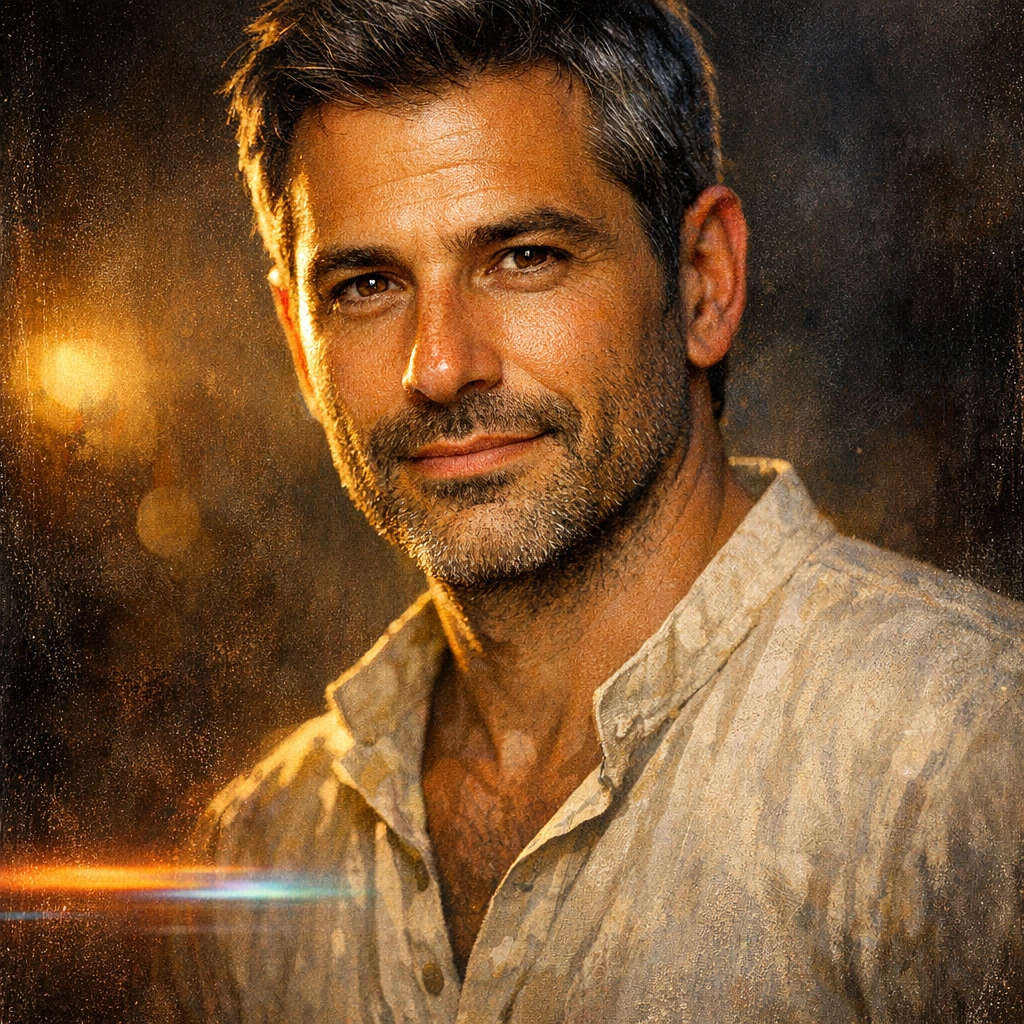
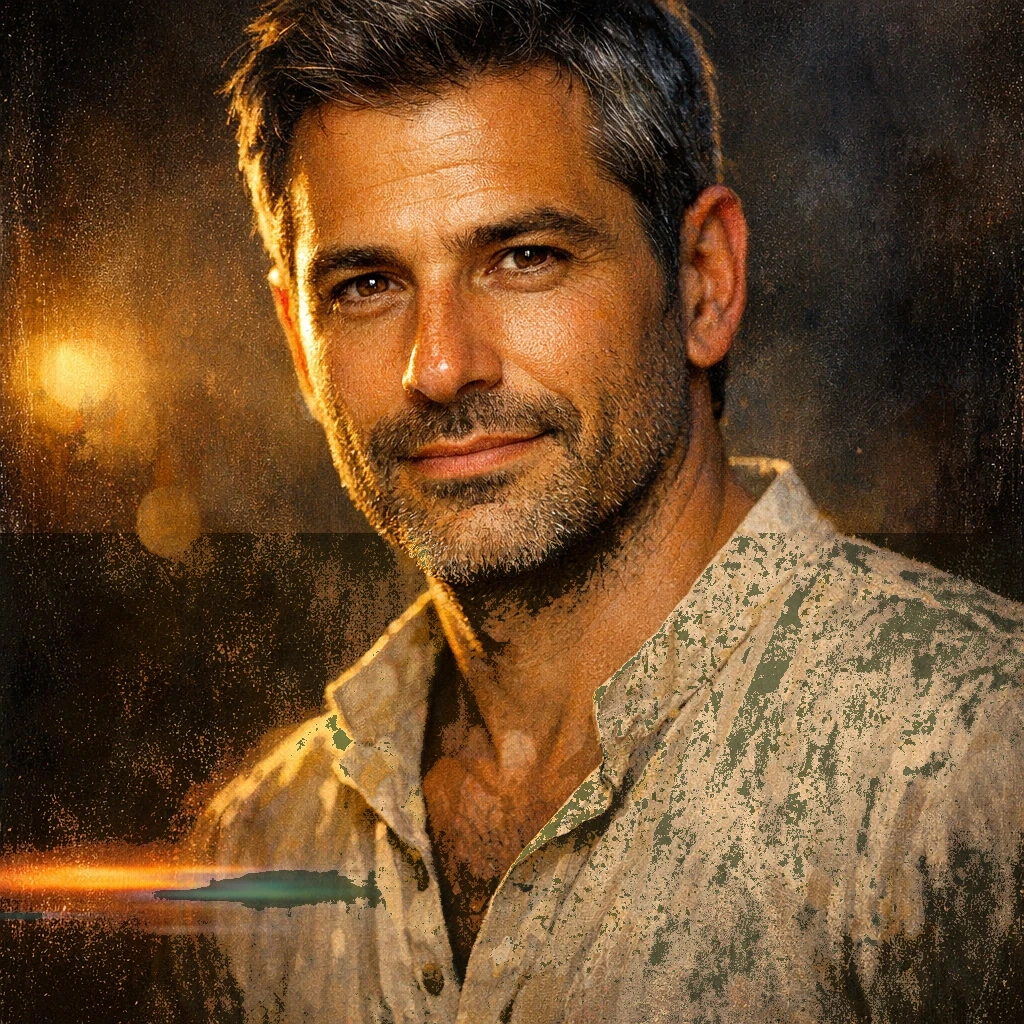
feat: character visual standardization — canonical guide + sprite/portrait color corrections
Create CHARACTER-VISUAL-GUIDE.md with canonical appearance definitions for all
11 characters (3 main + 8 NPCs) including hex color palettes and cutscene prompt
snippets. Audit all assets and fix mismatches:

Sprites: Ntemis yellow→olive jacket, Clio dark→golden brown hair, Stathis
dark→white/silver hair, Giannis brown→blond hair (programmatic HSV color shifts).

Portraits: Clio green→purple shirt, Stathis new portrait (white ponytail + denim
+ guitar), Giannis brown→blond hair, Ntemis/Akis subtle tone adjustments.

Code: Update drawFallbackPerson() palette to match canonical colors.

Changed region(s): [[0.0, 0.5, 1.0, 1.0], [0.7812, 0.875, 0.8125, 0.9062], [0.4688, 0.9688, 0.5, 1.0]]

diff --git a/index.html b/index.html
@@ -3207,9 +3207,9 @@ function drawSprite(who, gx, gy, dir, walking, frame, tick, frameOffset) {
 
 function drawFallbackPerson(x, y, who) {
   const colors = {
-    ntemis: { shirt: '#2A4466', pants: '#1a2a3a', skin: '#DDAA88' },
-    ajax:   { shirt: '#4A6644', pants: '#2a3a2a', skin: '#DDBB99' },
-    clio:   { shirt: '#664466', pants: '#3a2a3a', skin: '#DDC0A0' },
+    ntemis: { shirt: '#5A6B4A', pants: '#8B7355', skin: '#DDAA88' },
+    ajax:   { shirt: '#C44040', pants: '#6A7A5A', skin: '#DDBB99' },
+    clio:   { shirt: '#886688', pants: '#5A3A5A', skin: '#DDC0A0' },
   };
   const c = colors[who] || colors.ntemis;
   const h = who === 'ntemis' ? 40 : 32;

diff --git a/CHARACTER-VISUAL-GUIDE.md b/CHARACTER-VISUAL-GUIDE.md
@@ -1,0 +1,244 @@
+# Character Visual Guide — Galaxidi Adventure
+
+Canonical appearance definitions for every character across all art layers:
+- **Sprites** (pixel art, in-game) — `assets/char-*-final.png`
+- **Portraits** (dialogue boxes) — `assets/portrait-*.webp`
+- **Cutscenes** (anime stills, Ken Burns) — `assets/cutscene-*.png`
+
+All layers MUST match these definitions. This file is the source of truth.
+
+---
+
+## Main Characters
+
+### NTEMIS (47, lawyer on summer vacation)
+
+| Attribute | Value |
+|-----------|-------|
+| Hair | Dark brown, short, slightly messy, light stubble/5 o'clock shadow |
+| Top | Olive/khaki field jacket (unbuttoned), cream t-shirt underneath |
+| Bottom | Dark tan/brown chinos |
+| Accessories | Brown leather messenger bag (sometimes) |
+| Skin | Mediterranean olive tan |
+| Build | Tall/slim, 184cm |
+| Vibe | Indiana Jones lite — casual adventurer dad, not a tourist |
+
+**Color Palette:**
+| Part | Hex | Swatch |
+|------|-----|--------|
+| Jacket | `#5A6B4A` | Olive/khaki |
+| Undershirt | `#F0E6D0` | Cream |
+| Pants | `#8B7355` | Dark tan |
+| Skin | `#DDAA88` | Mediterranean olive |
+
+---
+
+### AJAX (13, athletic teen)
+
+| Attribute | Value |
+|-----------|-------|
+| Hair | Dark brown, curly/wavy, messy |
+| Top | Red t-shirt (solid, no print) |
+| Bottom | Olive/khaki cargo shorts (knee-length) |
+| Accessories | Dark canvas satchel/backpack with cross-body strap |
+| Skin | Mediterranean olive, slightly darker than Ntemis |
+| Build | Athletic/lean, 160cm |
+| Vibe | Energetic explorer kid, always ready to climb something |
+
+**Color Palette:**
+| Part | Hex | Swatch |
+|------|-----|--------|
+| Shirt | `#C44040` | Red |
+| Shorts | `#6A7A5A` | Olive/khaki |
+| Strap | `#4A3A2A` | Dark brown |
+| Skin | `#DDBB99` | Mediterranean olive (slightly darker) |
+
+---
+
+### CLIO (7, creative little girl)
+
+| Attribute | Value |
+|-----------|-------|
+| Hair | Golden brown, long, wavy/slightly curly, loose (no ponytail) |
+| Top | Mauve/soft purple sundress OR purple t-shirt + darker purple skirt |
+| Accessories | Small sketchbook tucked under arm (sometimes), straw sun hat (sometimes) |
+| Skin | Lightest of the three, fair Mediterranean |
+| Build | Small/petite, 120cm |
+| Vibe | Dreamy artist child, Ponyo/Mei from Totoro energy |
+
+**Color Palette:**
+| Part | Hex | Swatch |
+|------|-----|--------|
+| Dress/Top | `#886688` | Mauve/soft purple |
+| Skirt | `#5A3A5A` | Darker purple |
+| Hair | `#B8864A` | Golden brown |
+| Skin | `#DDC0A0` | Fair Mediterranean |
+
+---
+
+## NPCs
+
+### AKIS (~55, documentarist/flute player)
+
+| Attribute | Value |
+|-----------|-------|
+| Hair | Silver-brown, medium length |
+| Clothes | Light tan/beige linen shirt (open collar), khaki pants, straw hat |
+| Accessory | Wooden flute (phlogera) |
+
+**Color Palette:**
+| Part | Hex |
+|------|-----|
+| Shirt | `#C8B898` |
+| Pants | `#A89878` |
+| Hat | `#D8C8A0` |
+| Hair | `#8A7A6A` |
+
+---
+
+### STATHIS (~55, guitar player)
+
+| Attribute | Value |
+|-----------|-------|
+| Hair | White, long, pulled back in a ponytail |
+| Build | Very thin/wiry |
+| Clothes | Blue denim shirt (rolled sleeves), dark jeans |
+| Accessory | Acoustic guitar |
+
+**Color Palette:**
+| Part | Hex |
+|------|-----|
+| Shirt | `#4A6A8A` |
+| Jeans | `#3A3A4A` |
+| Hair | `#E0DADA` |
+
+---
+
+### CURATOR / EPIMELETIS (~55, museum director)
+
+| Attribute | Value |
+|-----------|-------|
+| Hair | Grey-white, thin |
+| Clothes | Brown tweed jacket, red/burgundy bow tie, white shirt |
+| Accessory | Round reading glasses (slightly crooked) |
+
+**Color Palette:**
+| Part | Hex |
+|------|-----|
+| Jacket | `#8A7A5A` |
+| Bow tie | `#8A3030` |
+| Shirt | `#F0E8E0` |
+
+---
+
+### ATHOS (50, lawyer/bar owner)
+
+| Attribute | Value |
+|-----------|-------|
+| Hair | Dark brown, neat |
+| Clothes | Dark navy blue suit, white shirt, red tie, red pocket square |
+| Accessory | Reading glasses at collar |
+
+**Color Palette:**
+| Part | Hex |
+|------|-----|
+| Suit | `#2A2A4A` |
+| Tie | `#AA2020` |
+| Shirt | `#F0F0F0` |
+
+---
+
+### GIANNIS VELANIS (40, windmill owner)
+
+| Attribute | Value |
+|-----------|-------|
+| Hair | Blond, short |
+| Build | Muscular, strong frame |
+| Clothes | Dark navy jacket (open), grey-blue t-shirt, blue jeans |
+
+**Color Palette:**
+| Part | Hex |
+|------|-----|
+| Jacket | `#3A3A4A` |
+| Shirt | `#6A7A8A` |
+| Jeans | `#4A5A6A` |
+| Hair | `#C8A850` |
+
+---
+
+### PAPAS (~65, priest)
+
+| Attribute | Value |
+|-----------|-------|
+| Clothes | Black Orthodox priest robes (rasa), black hat (kalimavkion) |
+| Hair | Grey beard, visible under hat |
+| Accessory | Gold pectoral cross |
+
+**Color Palette:**
+| Part | Hex |
+|------|-----|
+| Robes | `#1A1A1A` |
+| Cross | `#C8A830` |
+
+---
+
+### CHRYSOSTOMOS (~70, old sailor)
+
+| Attribute | Value |
+|-----------|-------|
+| Clothes | Dark navy fisherman's sweater, dark pants |
+| Hair | Grey-white, weathered face |
+| Accessory | Navy captain's/fisherman's cap |
+
+**Color Palette:**
+| Part | Hex |
+|------|-----|
+| Sweater | `#2A3A5A` |
+| Cap | `#2A3A4A` |
+| Skin | Weathered tan |
+
+---
+
+### GHOST / CAPTAIN VISVIKIS (appears ~60, died 1903)
+
+| Attribute | Value |
+|-----------|-------|
+| Clothes | 19th century captain's coat — dark navy with gold buttons, gold trim |
+| Hair | Long white beard, weathered face |
+| Accessory | Captain's hat with anchor emblem |
+| Special | Faint blue-white glow, translucent edges |
+
+**Color Palette:**
+| Part | Hex |
+|------|-----|
+| Coat | `#1A2A4A` |
+| Gold trim | `#C8A830` |
+| Glow | `#8AB8E8` |
+
+---
+
+## Cutscene Prompt Snippets
+
+Copy-paste these into EVERY `losc_imagine` cutscene prompt for character accuracy:
+
+**NTEMIS:** "a tall 47-year-old man (184cm) with dark brown short messy hair and light stubble, wearing an olive khaki field jacket unbuttoned over a cream t-shirt, dark tan chinos"
+
+**AJAX:** "a 13-year-old athletic boy with dark brown curly messy hair, wearing a red t-shirt, olive cargo shorts, and a dark canvas cross-body satchel"
+
+**CLIO:** "a 7-year-old petite girl with golden brown long wavy hair, wearing a mauve purple sundress, sometimes with a straw sun hat"
+
+**AKIS:** "a 55-year-old man with silver-brown hair wearing a straw hat, tan linen shirt, khaki pants, holding a wooden flute"
+
+**STATHIS:** "a 55-year-old very thin wiry man with white hair in a ponytail, wearing a blue denim shirt with rolled sleeves, dark jeans, holding an acoustic guitar"
+
+**GIANNIS:** "a 40-year-old muscular man with short blond hair, wearing a dark navy jacket open over a grey-blue t-shirt, blue jeans"
+
+**ATHOS:** "a 50-year-old man with neat dark brown hair, wearing a dark navy blue suit with a red tie and red pocket square"
+
+**CURATOR:** "a 55-year-old thin man with grey-white hair, wearing a brown tweed jacket, red bow tie, white shirt, and round reading glasses slightly crooked"
+
+**PAPAS:** "a 65-year-old Greek Orthodox priest with a grey beard, wearing black robes and a black kalimavkion hat, with a gold pectoral cross"
+
+**CHRYSOSTOMOS:** "a 70-year-old weathered old sailor with grey-white hair, wearing a dark navy fisherman's sweater and a captain's cap"
+
+**GHOST:** "the translucent ghost of a 19th century sea captain with a long white beard, wearing a dark navy captain's coat with gold buttons and trim, captain's hat with anchor emblem, faint blue-white ethereal glow"

diff --git a/CLAUDE.md b/CLAUDE.md
@@ -187,6 +187,7 @@ Scene 12 (harbor): Ntemis's speech → Akis's documentary → new αλληλασ
 - **`STORY.md`** — Story bible (text companion, aligned with storyboard)
 - **`ROADMAP.md`** — Development roadmap — 8-phase plan from prototype to release (LOSC: `thought:2026-02-16-galaxidi-adventure-game-develo`)
 - `CHARACTER-LORE.md` — Deep character profiles (Ntemis, Ajax, Clio) — personality, voice, relationships, arcs
+- `CHARACTER-VISUAL-GUIDE.md` — **Canonical visual appearance** for all characters (outfits, colors, hex palettes). Source of truth for sprites, portraits, cutscenes
 - `GAME-BIBLE.md` — **OBSOLETE** (old 12-token version, do NOT use for new work)
 - `PILOT-STORY.md` — **OBSOLETE** (old 8-scene version)
 - `inspiration/galaxidi-history.md` — Verified Galaxidi history timeline
